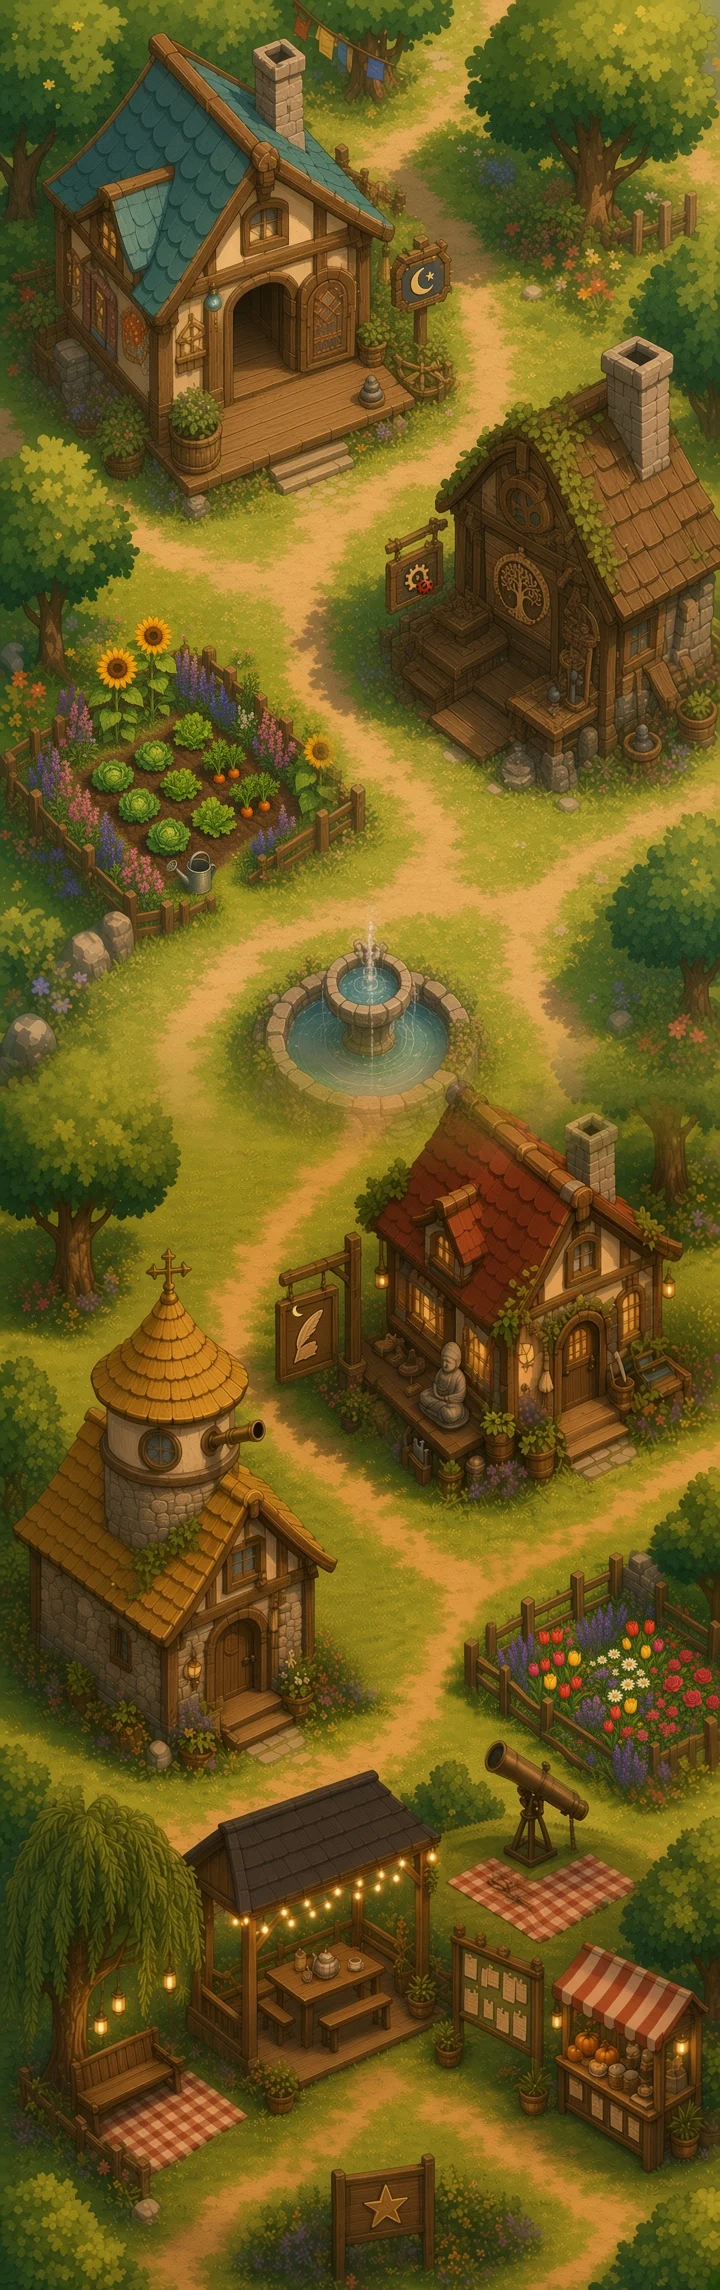
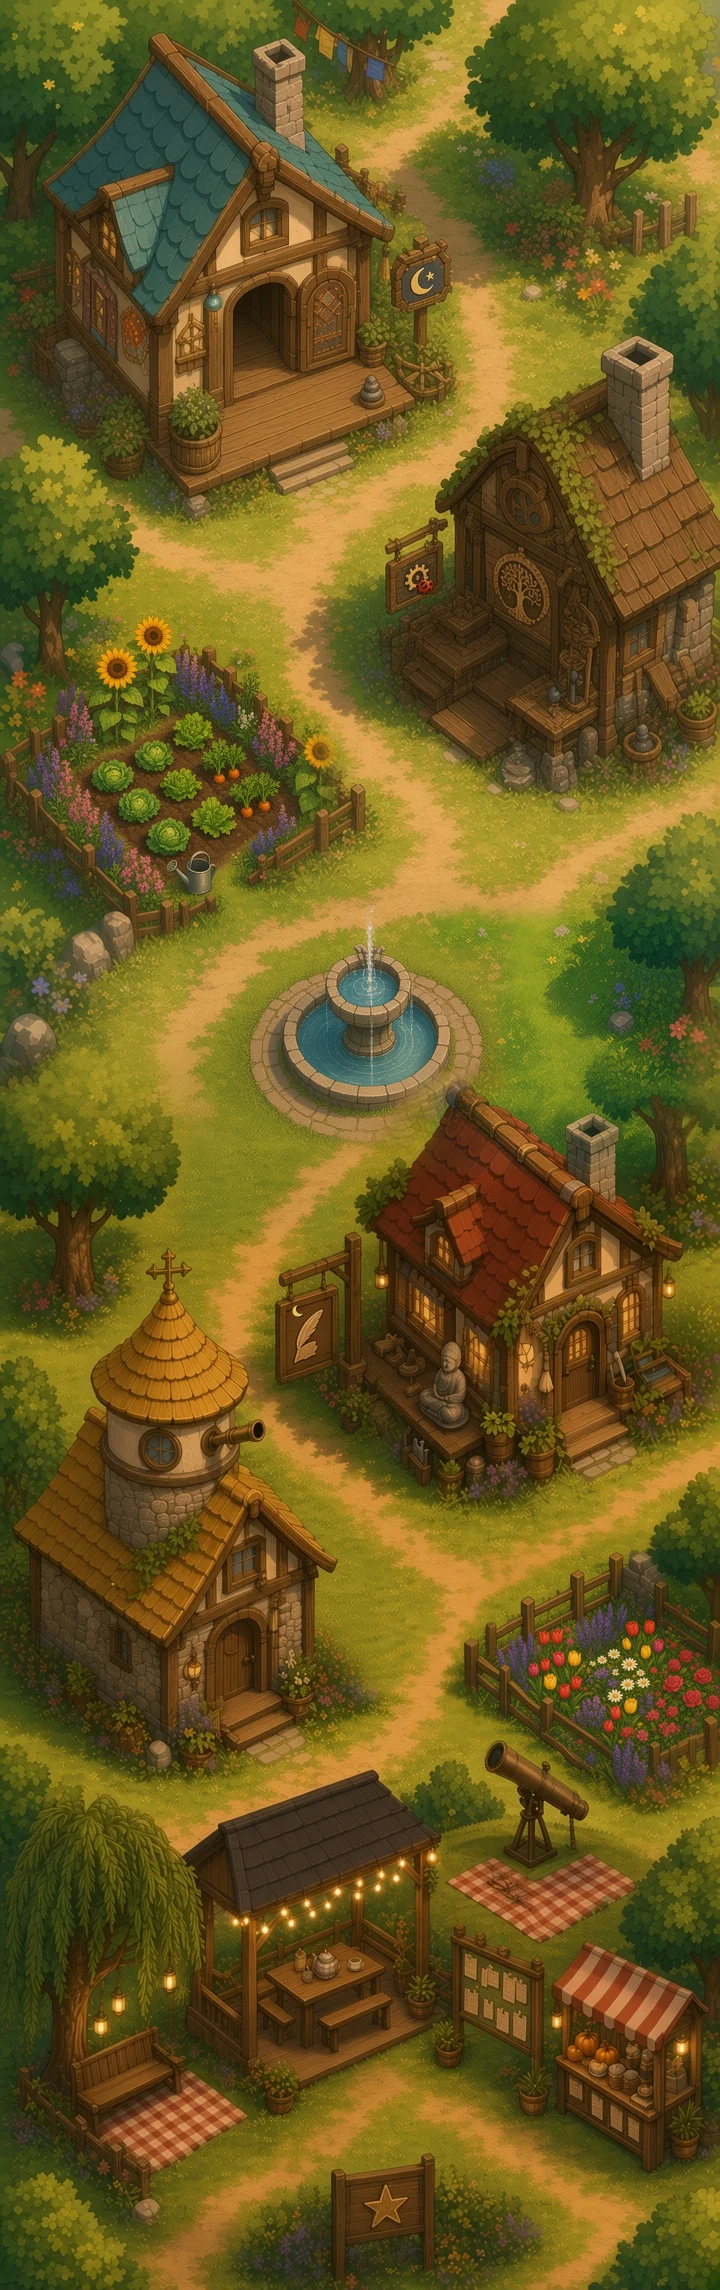
Repaint the fountain and remove Room tone.
The map uses the new fountain painting, and the Room tone button and its generated loop are gone from the map and the houses. Music stays. Service worker is bot-town-v13.

Changed region(s): [[0.275, 0.3721, 0.9472, 0.5271]]

diff --git a/music.js b/music.js
@@ -52,37 +52,5 @@ window.BotMusic = (() => {
     schedule(); timer = setInterval(schedule, 100);
   }
   function stop() { clearInterval(timer); timer = null; if (rain) { try { rain.stop(); } catch (e) {} rain = null; } current = null; }
-  let air = null;
-  function setAir(on) {
-    try {
-      if (!on) {
-        if (!air) return false;
-        const a = air; air = null;
-        a.g.gain.cancelScheduledValues(ctx.currentTime);
-        a.g.gain.linearRampToValueAtTime(.0001, ctx.currentTime + .35);
-        setTimeout(() => { try { a.src.stop(); a.oscs.forEach(o => o.stop()); } catch (e) {} }, 400);
-        return false;
-      }
-      init(); ctx.resume();
-      if (air) return true;
-      const g = ctx.createGain(); g.gain.value = .0001; g.gain.exponentialRampToValueAtTime(1, ctx.currentTime + .9); g.connect(master);
-      const src = ctx.createBufferSource(); src.buffer = noiseBuf(); src.loop = true;
-      const f = ctx.createBiquadFilter(); f.type = 'lowpass'; f.frequency.value = 380;
-      const ng = ctx.createGain(); ng.gain.value = .04;
-      src.connect(f); f.connect(ng); ng.connect(g); src.start();
-      const oscs = [];
-      [[174.6, .018, .06], [220, .014, .045], [261.6, .009, .035]].forEach(([freq, vol, rate]) => {
-        const o = ctx.createOscillator(); o.type = 'sine'; o.frequency.value = freq;
-        const og = ctx.createGain(); og.gain.value = vol;
-        const lfo = ctx.createOscillator(); lfo.frequency.value = rate;
-        const lg = ctx.createGain(); lg.gain.value = 2;
-        lfo.connect(lg); lg.connect(o.detune);
-        o.connect(og); og.connect(g); o.start(); lfo.start();
-        oscs.push(o, lfo);
-      });
-      air = { g, src, oscs };
-      return true;
-    } catch (e) { return false; }
-  }
-  return { TRACKS, play, stop, setAir, get current() { return current; }, get air() { return !!air; } };
+  return { TRACKS, play, stop, get current() { return current; } };
 })();

diff --git a/app.js b/app.js
@@ -13,11 +13,9 @@
     visit: sv('<path d="M3 12v5h18v-5a2 2 0 00-4 0v2H7v-2a2 2 0 00-4 0z"/><path d="M5 10V8a3 3 0 013-3h8a3 3 0 013 3v2M5 17v2M19 17v2"/>'),
     ladder: sv('<path d="M7 2v20M17 2v20M7 6h10M7 10h10M7 14h10M7 18h10"/>'),
     down: sv('<path d="M7 2v13M17 2v13M7 6h10M7 10h10"/><path d="M12 14v8M8.5 18.5L12 22l3.5-3.5"/>'),
-    up: sv('<path d="M7 9v13M17 9v13M7 14h10M7 18h10"/><path d="M12 10V2M8.5 5.5L12 2l3.5 3.5"/>'),
-    air: sv('<path d="M4 9h10a2.5 2.5 0 010 5H9"/><path d="M3 5h14a2 2 0 010 4"/><path d="M6 18h8"/><circle cx="18" cy="16" r="1.2" fill="#6b3f1f" stroke="none"/>')
+    up: sv('<path d="M7 9v13M17 9v13M7 14h10M7 18h10"/><path d="M12 10V2M8.5 5.5L12 2l3.5 3.5"/>')
   };
   $('#back').innerHTML = IC.back; $('#musicBtn').innerHTML = IC.music; $('#mapMusic').innerHTML = IC.music; $('#camBtn').innerHTML = IC.cam;
-  $('#airBtn').innerHTML = IC.air; $('#mapAir').innerHTML = IC.air;
   const motionMQ = matchMedia('(prefers-reduced-motion: reduce)');
   let motionOK = !motionMQ.matches;
   const buzz = ms => { try { if (navigator.vibrate) navigator.vibrate(ms || 10); } catch (e) {} };
@@ -458,13 +456,6 @@
   });
   if (motionOK) raf = requestAnimationFrame(frame);
   if (typeof DeviceOrientationEvent === 'undefined' || typeof DeviceOrientationEvent.requestPermission !== 'function') listenOrient();
-
-  function syncAir() {
-    const on = !!(window.BotMusic && BotMusic.air);
-    ['#airBtn', '#mapAir'].forEach(sel => { const b = $(sel); b.classList.toggle('on', on); b.setAttribute('aria-pressed', on ? 'true' : 'false'); });
-  }
-  const toggleAir = () => { BotMusic.setAir(!BotMusic.air); syncAir(); };
-  $('#airBtn').onclick = toggleAir; $('#mapAir').onclick = toggleAir;
 
   let deferredPrompt = null;
   addEventListener('beforeinstallprompt', e => {

diff --git a/index.html b/index.html
@@ -12,7 +12,6 @@
   <div id="mapwrap"><img src="assets/map-v2.webp" alt="Bot Town map" draggable="false"><div id="clouds" aria-hidden="true"><span></span><span></span><span></span></div><canvas id="mapMotes" aria-hidden="true"></canvas><div id="hotspots"></div></div>
   <header class="banner">Bot Town</header>
   <div id="mapTools">
-    <button class="ibtn" id="mapAir" aria-label="Room tone" aria-pressed="false"></button>
     <button class="ibtn" id="mapMusic" aria-label="Music"></button>
   </div>
   <div id="install" class="toast" hidden>
@@ -27,7 +26,6 @@
   <header id="topbar">
     <button class="ibtn" id="back" aria-label="Back to map"></button>
     <div id="title"><b id="houseName"></b><small id="houseRole"></small></div>
-    <button class="ibtn" id="airBtn" aria-label="Room tone" aria-pressed="false"></button>
     <button class="ibtn" id="musicBtn" aria-label="Music"></button>
     <button class="ibtn" id="camBtn" aria-label="Reset camera"></button>
   </header>

diff --git a/sw.js b/sw.js
@@ -1,4 +1,4 @@
-const CACHE = 'bot-town-v12';
+const CACHE = 'bot-town-v13';
 const ASSETS = ['./', 'index.html', 'style.css', 'config.js', 'music.js', 'app.js', 'manifest.json',
   'assets/map-v2.webp', 'assets/starfall-hill-scene.webp',
   'assets/olithia-house-v4.webp', 'assets/olithia-house-v4-exterior.webp',

diff --git a/README.md b/README.md
@@ -14,8 +14,8 @@ A cozy phone web game (installable PWA). Plain HTML/CSS/JS — no build step.
 - Characters: Olithia (Lotus Cottage), Gorbo (Mossy Workshop), Loria (Bookshop) and Scout (his cottage, painted on the map). Each house interior is a painting with Idle / Working / Sitting buttons. A glowing door in each house opens that character's bedroom. Scout's burrow is still under Loria's shop: the round hobbit door in her middle room, or the "Down to Scout's burrow" button. Starfall Hill is painted at the bottom of the map and opens a night scene with no pose buttons.
 - The map is a tall picture (`map-v2.webp`) that fills the phone width and scrolls vertically. House name labels are painted signs on the map.
 - **music.js**: generated ambient tracks.
-- After changing files, bump `CACHE` in `sw.js` (currently `bot-town-v12`) so installed phones fetch the update.
-- Rooms have a few pixels of tilt (or finger) parallax, drifting motes, lamp glow, and a breathing vignette. The map has slow clouds. Room tone is a generated loop, off until tapped. `prefers-reduced-motion` turns the motion off.
+- After changing files, bump `CACHE` in `sw.js` (currently `bot-town-v13`) so installed phones fetch the update.
+- Rooms have a few pixels of tilt (or finger) parallax, drifting motes, lamp glow, and a breathing vignette. The map has slow clouds. `prefers-reduced-motion` turns the motion off.
 
 ## Testing tips
 - `?hour=22` previews the night tint. `?loaddelay=3000` slows the loading screen.
